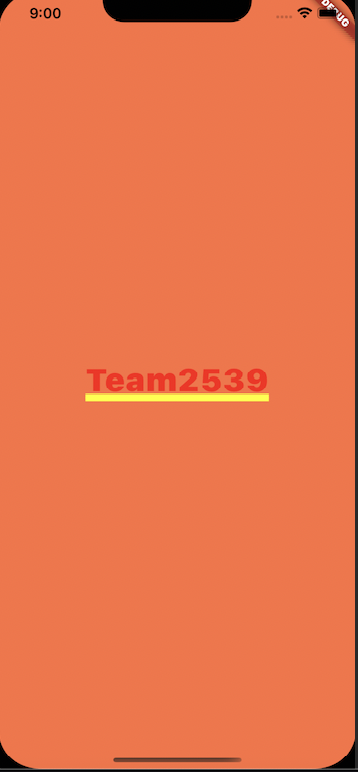
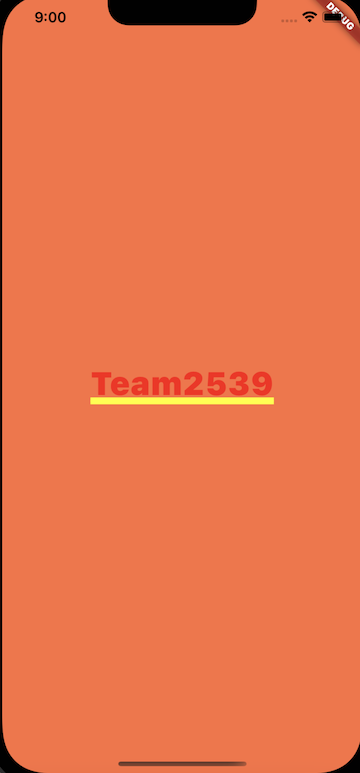
Project Updates

diff --git a/projects/2 - Layouts.md b/projects/2 - Layouts.md
@@ -39,7 +39,7 @@ class Home extends StatelessWidget {
 
 3. Run the application.  You should see a deep orange screen with the text __Team2539__ (red with a yellow underline) centered in the screen container.
 
-    <img src="images/p2-t1.png" width="50%", height="50%" />
+    <img src="images/p2-t1.png" width=25% height=25% />
 
 
 #### Observations
